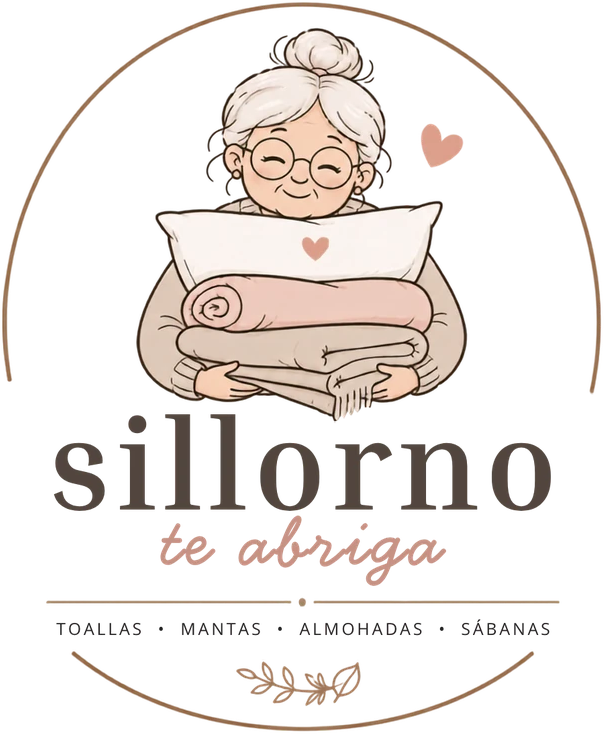
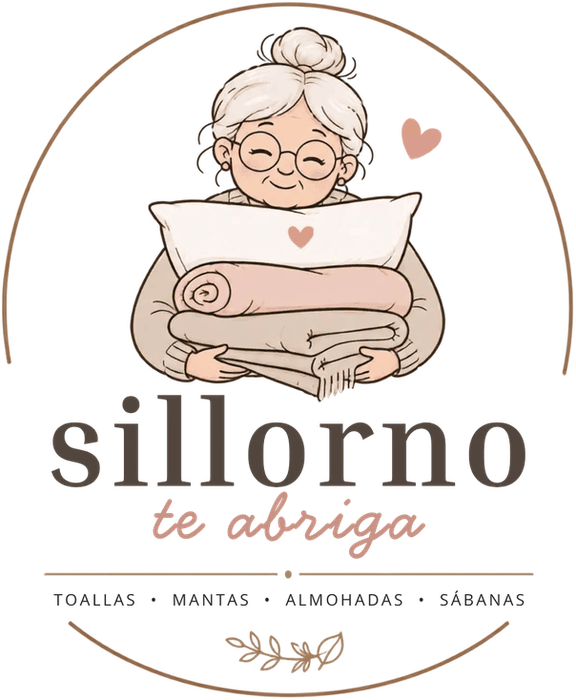
Fix hero intro being skipped on mobile Safari, and cut scroll jank
Root cause of the skipped intro: globals.css opened with an @import of
Google Fonts, which is render-blocking, while layout.tsx was *also* loading
Inter through next/font. On a slow phone the first paint waited seconds on
that request — but a CSS animation's clock is the document timeline, which
had been running the whole time, so the ~1.7s intro was already over before
anything reached the screen and the logo appeared fully assembled.

- Drop the @import; next/font already self-hosts Inter. Dropping the weight
  list also switches it to the variable font, which covers the 300/500/600
  the site uses and were being synthesised.
- Gate the animation behind a .hero-go class added one frame after the
  first paint, so its clock starts when the user can actually see it
  rather than when the document was created. .js holds the pre-animation
  state so nothing flashes in place, and its absence (JS off) leaves the
  hero plainly visible. suppressHydrationWarning on <html> because the
  inline script writes to it before React hydrates.

Jank, all worst on iOS:
- The section-tracking scroll listener called getBoundingClientRect on four
  sections per scroll event, forcing a reflow each time; now throttled to
  one frame.
- The hero glow was a 500px circle under a 100px filter blur; a
  radial-gradient looks the same and costs nothing to composite.
- backdrop-blur on the fixed navbar now only applies from md up.
- Sillorno's logo: 357KB -> 227KB.

Changed region(s): [[0.5938, 0.21, 0.625, 0.24], [0.5, 0.24, 0.5312, 0.27]]

diff --git a/app/globals.css b/app/globals.css
@@ -1,4 +1,3 @@
-@import url("https://fonts.googleapis.com/css2?family=Inter:wght@200;400;700;900&display=swap");
 @import "tailwindcss";
 
 :root {
@@ -16,7 +15,7 @@
   --color-muted: var(--foreground-muted);
   --color-accent: var(--accent);
   --color-border: var(--border);
-  --font-sans: "Inter", sans-serif;
+  --font-sans: var(--font-inter), sans-serif;
 }
 
 *,
@@ -32,7 +31,7 @@ html {
 body {
   background: var(--background);
   color: var(--foreground);
-  font-family: "Inter", sans-serif;
+  font-family: var(--font-inter), sans-serif;
   -webkit-font-smoothing: antialiased;
   -moz-osx-font-smoothing: grayscale;
   overflow-x: hidden;
@@ -80,27 +79,45 @@ body {
   50%      { transform: translateY(6px); }
 }
 
+@keyframes hero-fade-in {
+  to { opacity: 1; }
+}
+
+/* The animations are gated behind .hero-go, which a tiny inline script in
+   the document head adds one frame AFTER the first paint.
+
+   Why: a CSS animation's clock is the document timeline, which starts long
+   before the page is actually painted. On mobile Safari the gap is big
+   enough that a ~1.7s intro can elapse before anything is on screen, so the
+   logo simply appears fully assembled — the exact bug reported. Gating on a
+   class set post-paint means the clock starts when the user can see it.
+
+   .js holds the pre-animation state so nothing flashes in place first; it's
+   set synchronously by the same script, and its absence (JS off) leaves the
+   hero plainly visible. */
+.js .hero-letter,
+.js .hero-fade,
+.js .hero-hint {
+  opacity: 0;
+}
+
 .hero-letter {
   animation-timing-function: cubic-bezier(0.22, 1, 0.36, 1);
   animation-duration: 1.4s;
   animation-fill-mode: both;
 }
-.hero-letter-k { animation-name: hero-from-top;    animation-delay: 0.1s; }
-.hero-letter-o { animation-name: hero-from-right;  animation-delay: 0.25s; }
-.hero-letter-d { animation-name: hero-from-bottom; animation-delay: 0.4s; }
-.hero-letter-a { animation-name: hero-from-left;   animation-delay: 0.55s; }
+.hero-go .hero-letter-k { animation-name: hero-from-top;    animation-delay: 0.1s; }
+.hero-go .hero-letter-o { animation-name: hero-from-right;  animation-delay: 0.25s; }
+.hero-go .hero-letter-d { animation-name: hero-from-bottom; animation-delay: 0.4s; }
+.hero-go .hero-letter-a { animation-name: hero-from-left;   animation-delay: 0.55s; }
 
-.hero-fade {
+.hero-go .hero-fade {
   animation: hero-fade-up 0.7s cubic-bezier(0.22, 1, 0.36, 1) both;
 }
-.hero-subtitle { animation-delay: 1.7s; }
-.hero-buttons  { animation-delay: 1.9s; }
-.hero-hint {
-  opacity: 0;
+.hero-go .hero-subtitle { animation-delay: 1.7s; }
+.hero-go .hero-buttons  { animation-delay: 1.9s; }
+.hero-go .hero-hint {
   animation: hero-fade-in 0.8s ease 2.3s forwards;
-}
-@keyframes hero-fade-in {
-  to { opacity: 1; }
 }
 .hero-hint-bounce {
   animation: hero-bounce 1.5s ease-in-out infinite;
@@ -108,10 +125,10 @@ body {
 
 /* Slightly snappier on phones */
 @media (max-width: 767px) {
-  .hero-letter   { animation-duration: 1.2s; }
-  .hero-subtitle { animation-delay: 1.5s; }
-  .hero-buttons  { animation-delay: 1.7s; }
-  .hero-hint     { animation-delay: 2s; }
+  .hero-letter            { animation-duration: 1.2s; }
+  .hero-go .hero-subtitle { animation-delay: 1.5s; }
+  .hero-go .hero-buttons  { animation-delay: 1.7s; }
+  .hero-go .hero-hint     { animation-delay: 2s; }
 }
 
 @media (prefers-reduced-motion: reduce) {

diff --git a/app/layout.tsx b/app/layout.tsx
@@ -2,9 +2,11 @@ import type { Metadata } from "next";
 import { Inter } from "next/font/google";
 import "./globals.css";
 
+// No `weight` list on purpose: that pins static cuts, and the site uses
+// 300/500/600 too, which were being synthesised. Omitting it pulls Inter's
+// variable font — one file, every weight.
 const inter = Inter({
   subsets: ["latin"],
-  weight: ["200", "400", "700", "900"],
   variable: "--font-inter",
   display: "swap",
 });
@@ -58,8 +60,24 @@ export default function RootLayout({
   children: React.ReactNode;
 }>) {
   return (
-    <html lang="es" className={inter.variable}>
+    // suppressHydrationWarning: the inline script below adds `js` / `hero-go`
+    // to this element before React hydrates, so the server and client class
+    // lists legitimately differ.
+    <html lang="es" className={inter.variable} suppressHydrationWarning>
       <head>
+        {/* Starts the hero intro one frame after the first paint instead of
+            letting it run off the document timeline — see globals.css. Runs
+            synchronously so `js` lands before anything is drawn; the timeout
+            is a backstop in case rAF never fires (e.g. background tab). */}
+        <script
+          dangerouslySetInnerHTML={{
+            __html:
+              "var d=document.documentElement;d.classList.add('js');" +
+              "var g=function(){d.classList.add('hero-go')};" +
+              "requestAnimationFrame(function(){requestAnimationFrame(g)});" +
+              "setTimeout(g,1200);",
+          }}
+        />
         <script
           type="application/ld+json"
           dangerouslySetInnerHTML={{

diff --git a/components/shared/Navbar.tsx b/components/shared/Navbar.tsx
@@ -53,12 +53,25 @@ export function Navbar() {
       setActiveId(current);
     };
 
+    // Throttle to one frame. Reading getBoundingClientRect forces layout, and
+    // iOS fires scroll far more often than it paints, so running this raw was
+    // a reflow per event — a real source of scroll jank on phones.
+    let queued = false;
+    const onScroll = () => {
+      if (queued) return;
+      queued = true;
+      requestAnimationFrame(() => {
+        queued = false;
+        compute();
+      });
+    };
+
     compute();
-    window.addEventListener("scroll", compute, { passive: true });
-    window.addEventListener("resize", compute);
+    window.addEventListener("scroll", onScroll, { passive: true });
+    window.addEventListener("resize", onScroll);
     return () => {
-      window.removeEventListener("scroll", compute);
-      window.removeEventListener("resize", compute);
+      window.removeEventListener("scroll", onScroll);
+      window.removeEventListener("resize", onScroll);
     };
   }, []);
 
@@ -74,7 +87,10 @@ export function Navbar() {
         }}
       >
         <motion.div
-          className="absolute inset-0 backdrop-blur-md bg-[#0a0a0a]"
+          // backdrop-blur only from md up: on a fixed bar it forces mobile
+          // Safari to re-composite the blur on every scroll frame, and the
+          // backdrop is ~95% opaque anyway so the blur barely shows.
+          className="absolute inset-0 md:backdrop-blur-md bg-[#0a0a0a]"
           style={{ opacity: bgOpacity }}
         />
         <nav className="relative max-w-7xl mx-auto px-5 sm:px-6 h-14 sm:h-16 flex items-center justify-between">

diff --git a/components/sections/Hero.tsx b/components/sections/Hero.tsx
@@ -40,10 +40,15 @@ export function Hero() {
         aria-hidden="true"
       />
 
-      {/* Accent glow */}
+      {/* Accent glow. A radial-gradient rather than a blurred circle: a
+          100px filter blur is one of the most expensive things you can ask
+          mobile Safari to composite, and this looks the same for free. */}
       <div
-        className="absolute top-1/2 left-1/2 -translate-x-1/2 -translate-y-1/2 w-[500px] h-[500px] rounded-full opacity-[0.06] blur-[100px]"
-        style={{ background: "#A78BFA" }}
+        className="absolute top-1/2 left-1/2 -translate-x-1/2 -translate-y-1/2 w-[700px] h-[700px]"
+        style={{
+          background:
+            "radial-gradient(circle, rgba(167,139,250,0.10) 0%, rgba(167,139,250,0.04) 45%, rgba(167,139,250,0) 70%)",
+        }}
         aria-hidden="true"
       />
 
